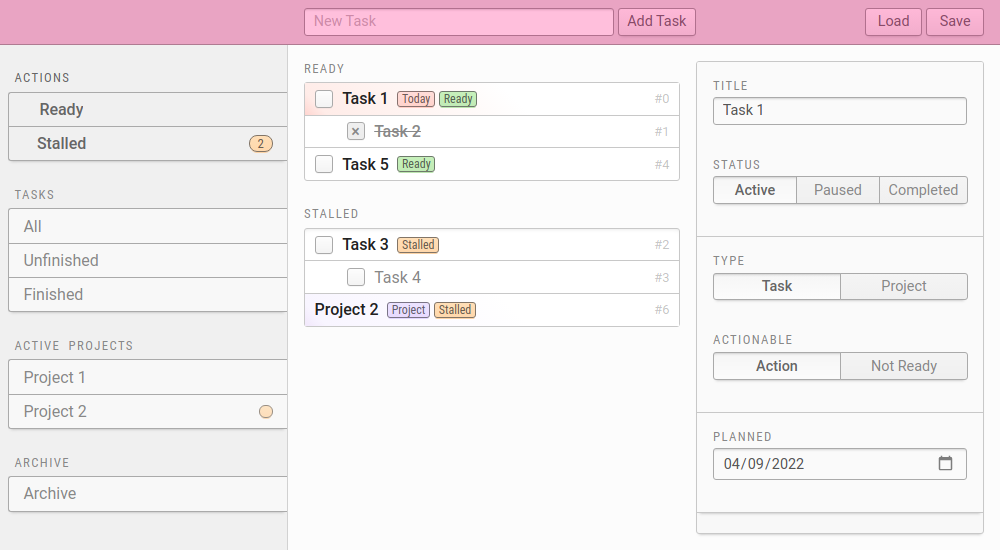
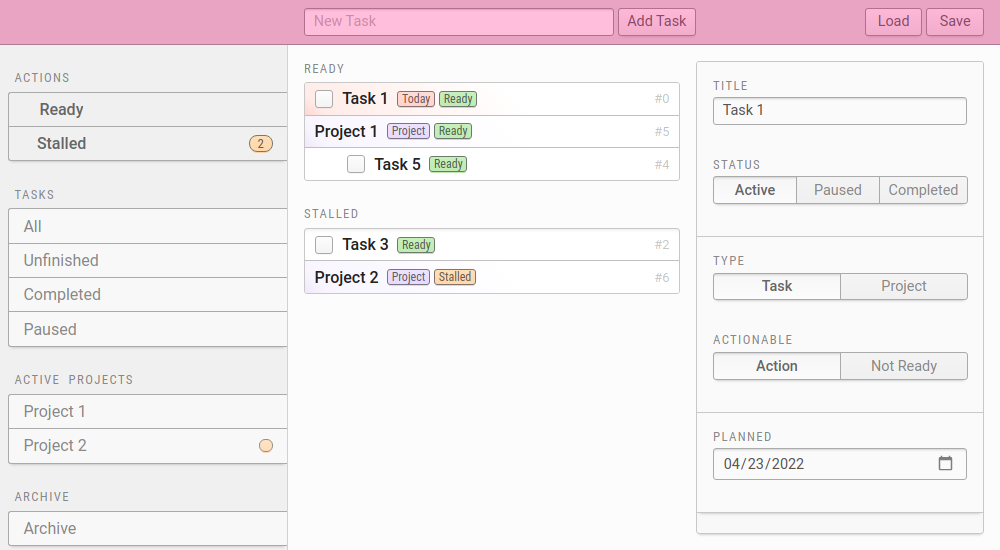
Add filter tab for paused tasks

diff --git a/app.test.ts b/app.test.ts
@@ -1166,6 +1166,32 @@ describe("filtered views of tasks", () => {
       });
     });
   });
+
+  describe("the paused filter shows paused tasks", () => {
+    const step1 = updateAll(empty, [...switchToFilter("stalled"), ...addTask("Task 0"), ...addTask("Task 1")]);
+
+    describe("initially", () => {
+      test("both tasks are shown in stalled filter", () => {
+        expect(tasks(step1, "title")).toEqual(["Task 0", "Task 1"]);
+      });
+
+      test("neither task is shown in paused filter", () => {
+        expect(tasks(updateAll(step1, switchToFilter("paused")), "title")).toEqual([]);
+      });
+    });
+
+    const step2 = updateAll(step1, [openNth(0), setComponentValue("Status", "paused")]);
+
+    describe("after marking first task as paused", () => {
+      test("only the second task is shown in stalled filter", () => {
+        expect(tasks(step2, "title")).toEqual(["Task 1"]);
+      });
+
+      test("the first task is shown in paused filter", () => {
+        expect(tasks(updateAll(step2, switchToFilter("paused")), "title")).toEqual(["Task 0"]);
+      });
+    });
+  });
 });
 
 describe("section filters", () => {
@@ -1196,6 +1222,34 @@ describe("section filters", () => {
           expect(filtersInSection(step2, "Actions")).toEqual([
             {label: "Ready", selected: true},
             {label: "Stalled", selected: true},
+          ]);
+        });
+      });
+    });
+
+    describe("for the tasks section", () => {
+      const step1 = updateAll(empty, []);
+
+      describe("initially", () => {
+        test("no filters are active", () => {
+          expect(filtersInSection(step1, "Tasks")).toEqual([
+            {label: "All", selected: false},
+            {label: "Unfinished", selected: false},
+            {label: "Completed", selected: false},
+            {label: "Paused", selected: false},
+          ]);
+        });
+      });
+
+      const step2 = updateAll(step1, [{tag: "selectFilter", filter: {type: "section", section: "tasks"}}]);
+
+      describe("after selecting the tasks section filter", () => {
+        test("all filters in the 'tasks' section become active", () => {
+          expect(filtersInSection(step2, "Tasks")).toEqual([
+            {label: "All", selected: true},
+            {label: "Unfinished", selected: true},
+            {label: "Completed", selected: true},
+            {label: "Paused", selected: true},
           ]);
         });
       });

diff --git a/tasks.ts b/tasks.ts
@@ -208,6 +208,7 @@ export type FilterId =
   | "stalled"
   | "not-done"
   | "archive"
+  | "paused"
   | {type: "project"; project: {id: string}}
   | {type: "section"; section: FilterSectionId};
 
@@ -238,6 +239,7 @@ function doesTaskMatch(tasks: Tasks, task: Task, filter: FilterId): boolean {
   else if (filter === "stalled") return isStalled(tasks, task);
   else if (filter === "not-done") return !isDone(task);
   else if (filter === "archive") return task.archived;
+  else if (filter === "paused") return isPaused(tasks, task);
   else return true;
 }
 
@@ -333,7 +335,7 @@ function viewRows(args: {
 
 function subfilters(tasks: Tasks, section: FilterSectionId): FilterId[] {
   if (section === "actions") return ["ready", "stalled"];
-  else if (section === "tasks") return ["all", "not-done", "done"];
+  else if (section === "tasks") return ["all", "not-done", "done", "paused"];
   else if (section === "activeProjects")
     return activeProjects(tasks).map((project) => ({type: "project", project: {id: project.id}}));
   else if (section === "archive") return ["archive"];
@@ -384,6 +386,7 @@ export function filterTitle(tasks: Tasks, filter: FilterId): string {
   else if (filter === "not-done") return "Unfinished";
   else if (filter === "archive") return "Archive";
   else if (filter === "all") return "All";
+  else if (filter === "paused") return "Paused";
   else {
     const unreachable: never = filter;
     return unreachable;

diff --git a/app.ts b/app.ts
@@ -100,7 +100,7 @@ export function view(app: State, {today}: {today: Date}): View {
       {
         title: "Tasks",
         filter: {type: "section", section: "tasks"},
-        filters: [filterView("all"), filterView("not-done"), filterView("done")],
+        filters: [filterView("all"), filterView("not-done"), filterView("done"), filterView("paused")],
       },
       {
         title: "Active projects",
